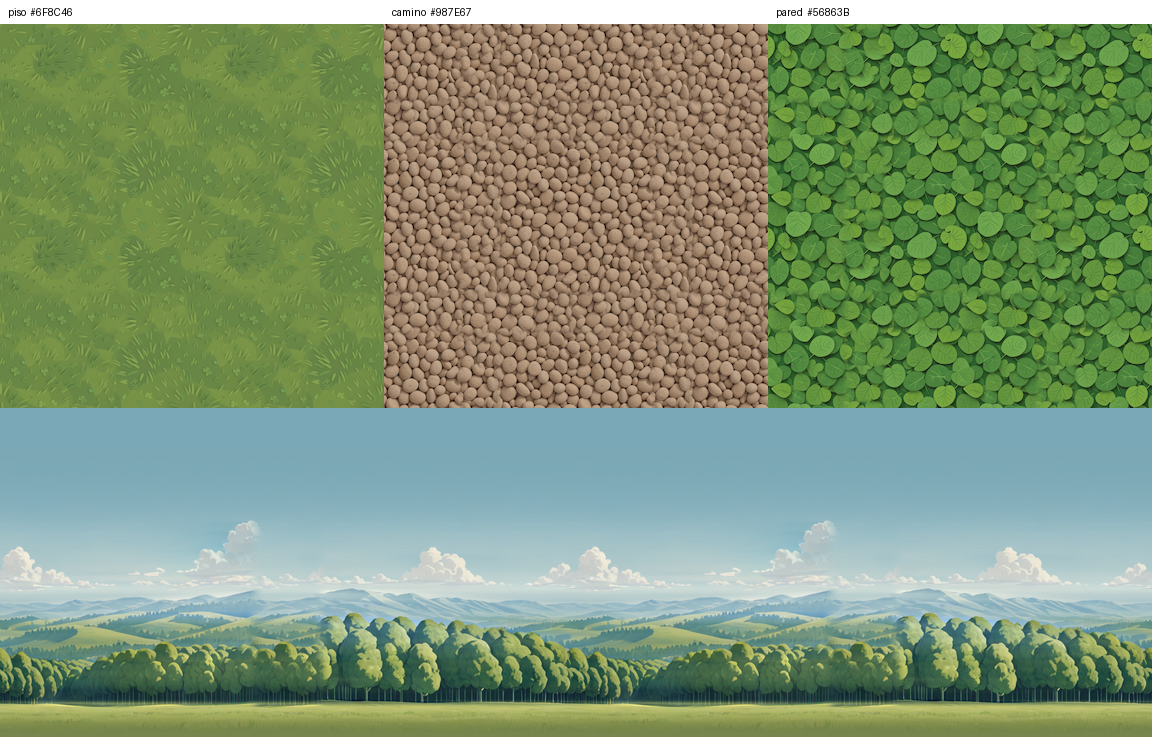
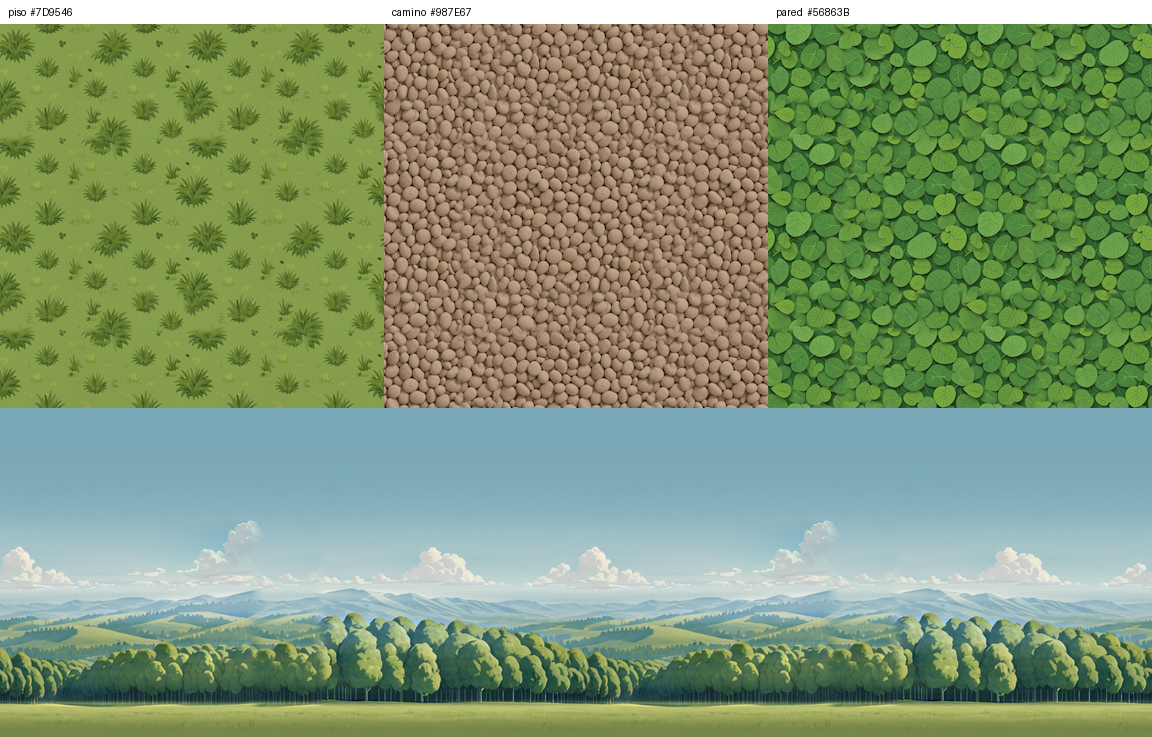
Bosque: piso con Z-Image Turbo (licencia comercial) en vez de FLUX.2; plantillas con crisol
Claude-Session: https://claude.ai/code/session_018MsxWHMbhG2Pb9ho6A4CGr

Changed region(s): [[0.0, 0.0, 0.3438, 0.5617]]

diff --git a/README.en.md b/README.en.md
@@ -257,8 +257,8 @@ crisol blender caja && crisol sprites caja   # -> objetos/caja/preview.png
 crisol tema bosque                   # tileable textures + theme colors (the chosen textures are included)
 ```
 
-The forest ships only its 4 chosen textures; the floor one was made with FLUX.2 Klein (non-commercial license): it is
-an example to try things out, not an asset for a commercial game.
+The forest ships only its 4 chosen textures: the floor made with Z-Image Turbo (Apache-2.0) and the rest with DreamShaper
+XL Turbo (CreativeML Open RAIL++-M).
 
 `ejemplos/personajes/cris/` also has the demo gifs, made from its iso sprites:
 [`demo_acciones.gif`](ejemplos/personajes/cris/demo_acciones.gif) (the one at the top),

diff --git a/README.md b/README.md
@@ -249,8 +249,8 @@ crisol blender caja && crisol sprites caja   # -> objetos/caja/preview.png
 crisol tema bosque                   # texturas repetibles + colores del tema (trae las texturas elegidas)
 ```
 
-El bosque trae solo las 4 texturas elegidas; la del piso se generó con FLUX.2 Klein (licencia no comercial): es un
-ejemplo para probar, no un asset para un juego comercial.
+El bosque trae solo las 4 texturas elegidas: el piso con Z-Image Turbo (Apache-2.0) y el resto con DreamShaper XL Turbo
+(CreativeML Open RAIL++-M).
 
 En `ejemplos/personajes/cris/` también están los gifs de demo, armados con sus sprites iso:
 [`demo_acciones.gif`](ejemplos/personajes/cris/demo_acciones.gif) (el de arriba),

diff --git a/ROADMAP.md b/ROADMAP.md
@@ -33,7 +33,7 @@ Dos tipos de usuario, los dos de primera:
 - [x] Ejemplos versionados: un personaje (Cris), un objeto (caja) y un escenario (bosque), probados desde un clon limpio.
 - [x] Gif de demo para la portada del README (`ejemplos/personajes/cris/demo_acciones.gif`; también `demo_paseo` y
       `demo_direcciones`).
-- [ ] Textura de piso del bosque con un modelo de licencia comercial.
+- [x] Textura de piso del bosque con un modelo de licencia comercial (Z-Image Turbo).
 
 ## Cris, la protagonista
 La herrera joven del crisol: el ejemplo de los docs y los tests, el logo y la protagonista de la landing.
